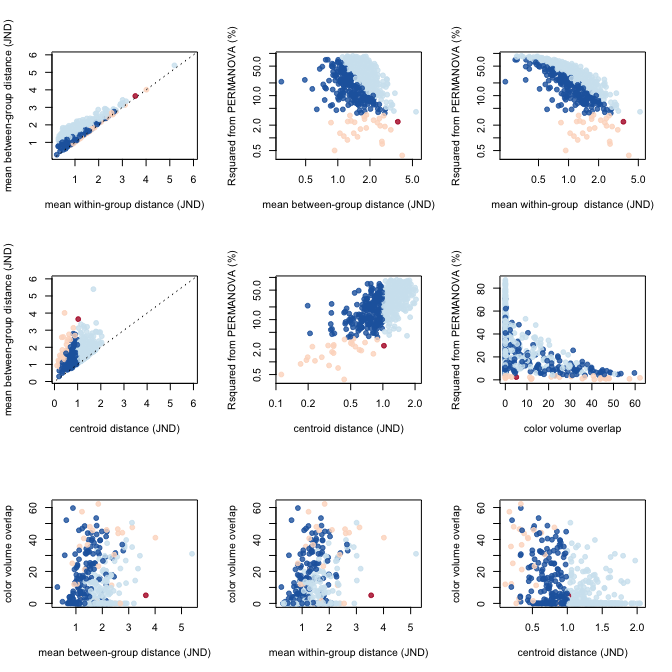
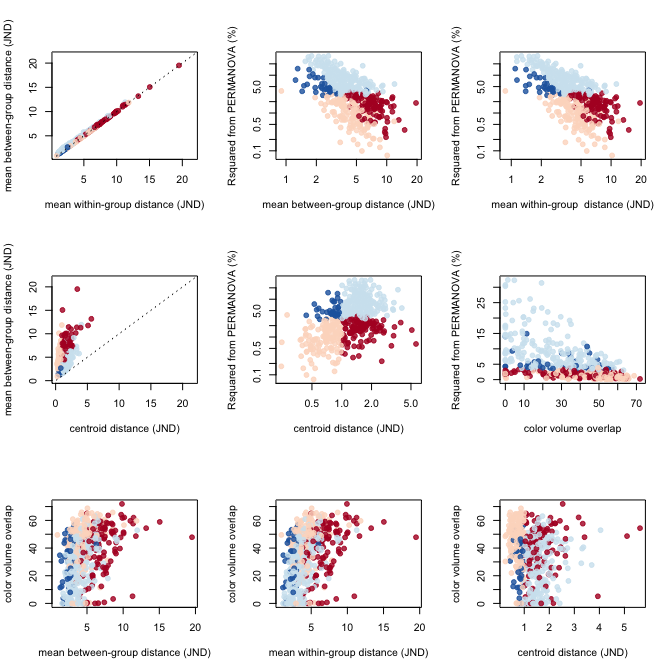
ms sims?

diff --git a/simspt3.md b/simspt3.md
@@ -198,7 +198,7 @@ Generate data
 
 ``` r
 simulatedata3 <- replicate(500, 
-                  simdich(N=50, sgsqsrate=15, multiplier=c(0.85, 1.15)), 
+                  simdich(N=50, sgsqsrate=4, multiplier=c(0.85, 1.15)), 
                   simplify=FALSE)
 
 simulatecoldist3 <- parallel::mclapply(simulatedata3, function(x) {
@@ -222,7 +222,7 @@ gc()
 
     ##             used   (Mb) gc trigger   (Mb)  max used   (Mb)
     ## Ncells   1821514   97.3    3205452  171.2   2637877  140.9
-    ## Vcells 275922689 2105.2  469417377 3581.4 325861855 2486.2
+    ## Vcells 275922689 2105.2  469417708 3581.4 325861837 2486.2
 
 ![](output/figures/simspt3/simspt3_figunnamed-chunk-6-1.png)
 
